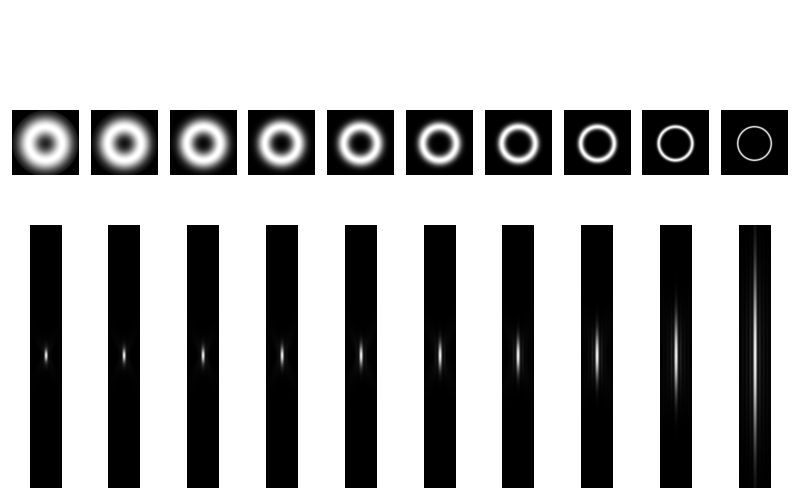
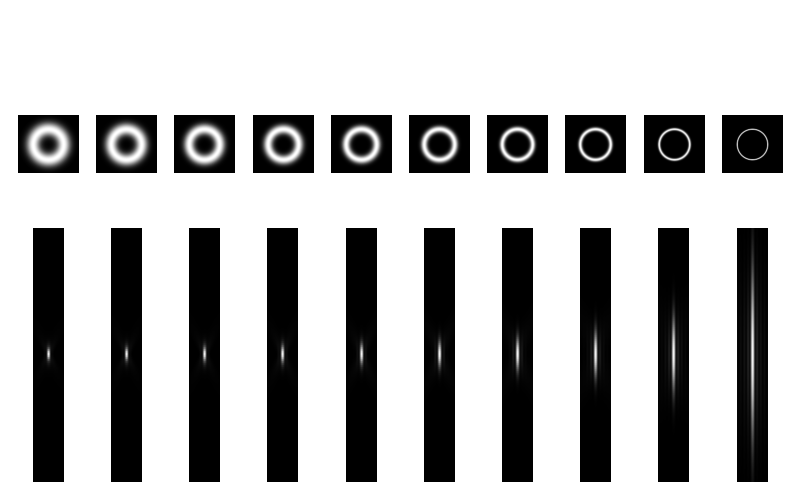
Need to figure out how to properly display complex 2D pupils

diff --git a/foci/debye_wolf.py b/foci/debye_wolf.py
@@ -83,26 +83,37 @@ class VectorialPupil(object):
         """Returns y-polarized component of pupil field."""
         return self._pupil[:, :, 1] * self._aperture_mask
     
+    @property
+    def x_amplitude(self) -> np.ndarray:
+        """Returns x-polarized amplitude of pupil field."""
+        return np.abs(self._pupil[:, :, 0]) * self._aperture_mask
+    
+    @property
+    def y_amplitude(self) -> np.ndarray:
+        """Returns y-polarized amplitude of pupil field."""
+        return np.abs(self._pupil[:, :, 1]) * self._aperture_mask
+
+    @property
+    def x_phase(self) -> np.ndarray:
+        """Returns the phase of the x-polarized component of the pupil field."""
+        return np.angle(self._pupil[:, :, 0]) * self._aperture_mask
+    
+    @property
+    def y_phase(self) -> np.ndarray:
+        """Returns the phase of the y-polarized component of the pupil field."""
+        return np.angle(self._pupil[:, :, 1]) * self._aperture_mask
+    
     def set_x(self, pupil_x: np.ndarray):
         self._pupil[:, :, 0] = pupil_x * self._aperture_mask
     
     def set_y(self, pupil_y: np.ndarray):
         self._pupil[:, :, 1] = pupil_y * self._aperture_mask
     
-    def modulus(self) -> np.ndarray:
-        return np.sqrt(self.x**2 + self.y**2)
+    def intensity(self) -> np.ndarray:
+        return np.real(self.x * np.conj(self.x) + self.y * np.conj(self.y))
     
-    def display(self, downsample: int=None, mask_threshold: float=1E-4, display_phase=True, cmap_amp='Reds', cmap_phase='Blues'):
-        """
-        Display the pupil.
-
-        Parameters
-        ----------
-        downsample : int, optional
-            The downsampled pupil used to draw polarization arrows. If None (default), the pupil polarization is displayed downsampled by factor of 16.
-        mask_threshold : float, optional
-            The magnitude below which the pupil magnitude is not displayed (considered negligible). The default is 1E-2.
-        """
+    def display(self, downsample: int=None, mask_threshold: float=1E-3, display_phase=True, cmap_amp='Reds', cmap_phase='Blues'):
+        
         if downsample is None:
             downsample = self.n // 16
         
@@ -115,15 +126,13 @@ class VectorialPupil(object):
 
         # Quiver plot for polarization direction is downsampled
         X, Y = np.meshgrid(scaled_x[::downsample], scaled_x[::downsample])
-        u = self.x.real[::downsample, ::downsample]
-        v = self.y.real[::downsample, ::downsample]
-        a = self.modulus().real[::downsample, ::downsample]
+        u = self.x_amplitude[::downsample, ::downsample]
+        v = self.y_amplitude[::downsample, ::downsample]
+        a = self.intensity()[::downsample, ::downsample]
+        ku = self.x_phase[::downsample, ::downsample]
+        kv = self.y_phase[::downsample, ::downsample]
 
-        ku = self.x.imag[::downsample, ::downsample]
-        kv = self.y.imag[::downsample, ::downsample]
-        ka = self.modulus().imag[::downsample, ::downsample]
-
-        mask_im = (np.abs(self.modulus().real) < mask_threshold)
+        mask_im = (self.intensity() < mask_threshold)
         for i, x in enumerate(scaled_x):
             for j, y in enumerate(scaled_x):
                 if np.sqrt(x**2 + y**2) > scaled_aperture / 2:
@@ -138,44 +147,16 @@ class VectorialPupil(object):
         ax1.spines['right'].set_visible(False)
         ax1.spines['bottom'].set_visible(False)
         ax1.spines['left'].set_visible(False)
-        amp = self.modulus().real
+        amp = self.intensity()
         amp[mask_im] = np.nan
         im = plt.imshow(amp, extent=extent, cmap=cmap_amp, vmin=0)
-        ax1.quiver(X[mask], Y[mask], dx * downsample / 6 * u[mask] / a[mask], dx * downsample / 6 * v[mask] / a[mask], color='black', alpha=0.6)
+        ax1.quiver(X[mask], Y[mask], dx * downsample / 6 * u[mask], dx * downsample / 6 * v[mask], color='black', alpha=0.6)
         ax1.set_aspect('equal')
         ax1.set_xlim(-scaled_aperture / 1.9, scaled_aperture / 1.9)
         ax1.set_ylim(-scaled_aperture / 1.9, scaled_aperture / 1.9)
-        cbar = plt.colorbar(im, fraction=0.02, pad=0.04)
+        plt.colorbar(im, fraction=0.02, pad=0.04)
         if display_phase:
-            ax2 = plt.subplot(1, 2, 2)
-            ax2.add_artist(plt.Circle((0, 0), radius=scaled_aperture / 2, fill=None, linewidth=3, edgecolor='white'))
-            plt.title('Pupil phase')
-            ax2.spines['top'].set_visible(False)
-            ax2.spines['right'].set_visible(False)
-            ax2.spines['bottom'].set_visible(False)
-            ax2.spines['left'].set_visible(False)
-            ph = self.modulus().imag % PI
-            ph[mask_im] = np.nan
-            im = plt.imshow(ph, extent=extent, cmap=cmap_phase, vmin=-2*PI, vmax=2*PI)
-            for _x, _y, _ku, _kv, _ka in zip(X[mask].flatten(), Y[mask].flatten(), ku[mask].flatten(), kv[mask].flatten(), ka[mask].flatten()):
-                dp = np.abs(_ku - _kv) % PI
-                tilt = 180/PI * dp / 2 + 45  # degrees
-                h = 1
-                w = np.sin(dp)
-                ax2.add_patch(Ellipse((_x, _y), h * dx * downsample / 1.5, w * dx * downsample / 1.5, angle=tilt, facecolor='none', edgecolor='black', linewidth=0.2))
-                if dp > mask_threshold:
-                    if _ku < _kv: # If left-handed
-                        marker='$l$'
-                    else:
-                        marker='$r$'
-                    ax2.scatter([_x], [_y], s=8, color='black', marker=marker)
-            ax2.set_aspect('equal')
-            ax2.set_xlim(-scaled_aperture / 1.9, scaled_aperture / 1.9)
-            ax2.set_ylim(-scaled_aperture / 1.9, scaled_aperture / 1.9)
-            ax2.set_yticks([])
-            cbar = plt.colorbar(im, fraction=0.02, pad=0.04)
-            cbar.set_ticks([-2*PI, -PI, 0, PI, 2*PI])
-            cbar.set_ticklabels(['-2π', '-π', '0', 'π', '2π'])
+            pass
         plt.tight_layout()
 
 

diff --git a/examples/bessel.py b/examples/bessel.py
@@ -66,7 +66,7 @@ for waist in waists:
     print('Simulated {} planes, {:.3f} ms per plane, {:.3f} s total.'.format(Z, (elapsed * 1000) / Z, elapsed))
     psf = field.intensity()
     psfs.append(psf)
-    pupil_intensity = pupil.modulus().real
+    pupil_intensity = pupil.intensity()
     pupil_intensity[~pupil.mask] = None
     pupils.append(pupil_intensity)
 
